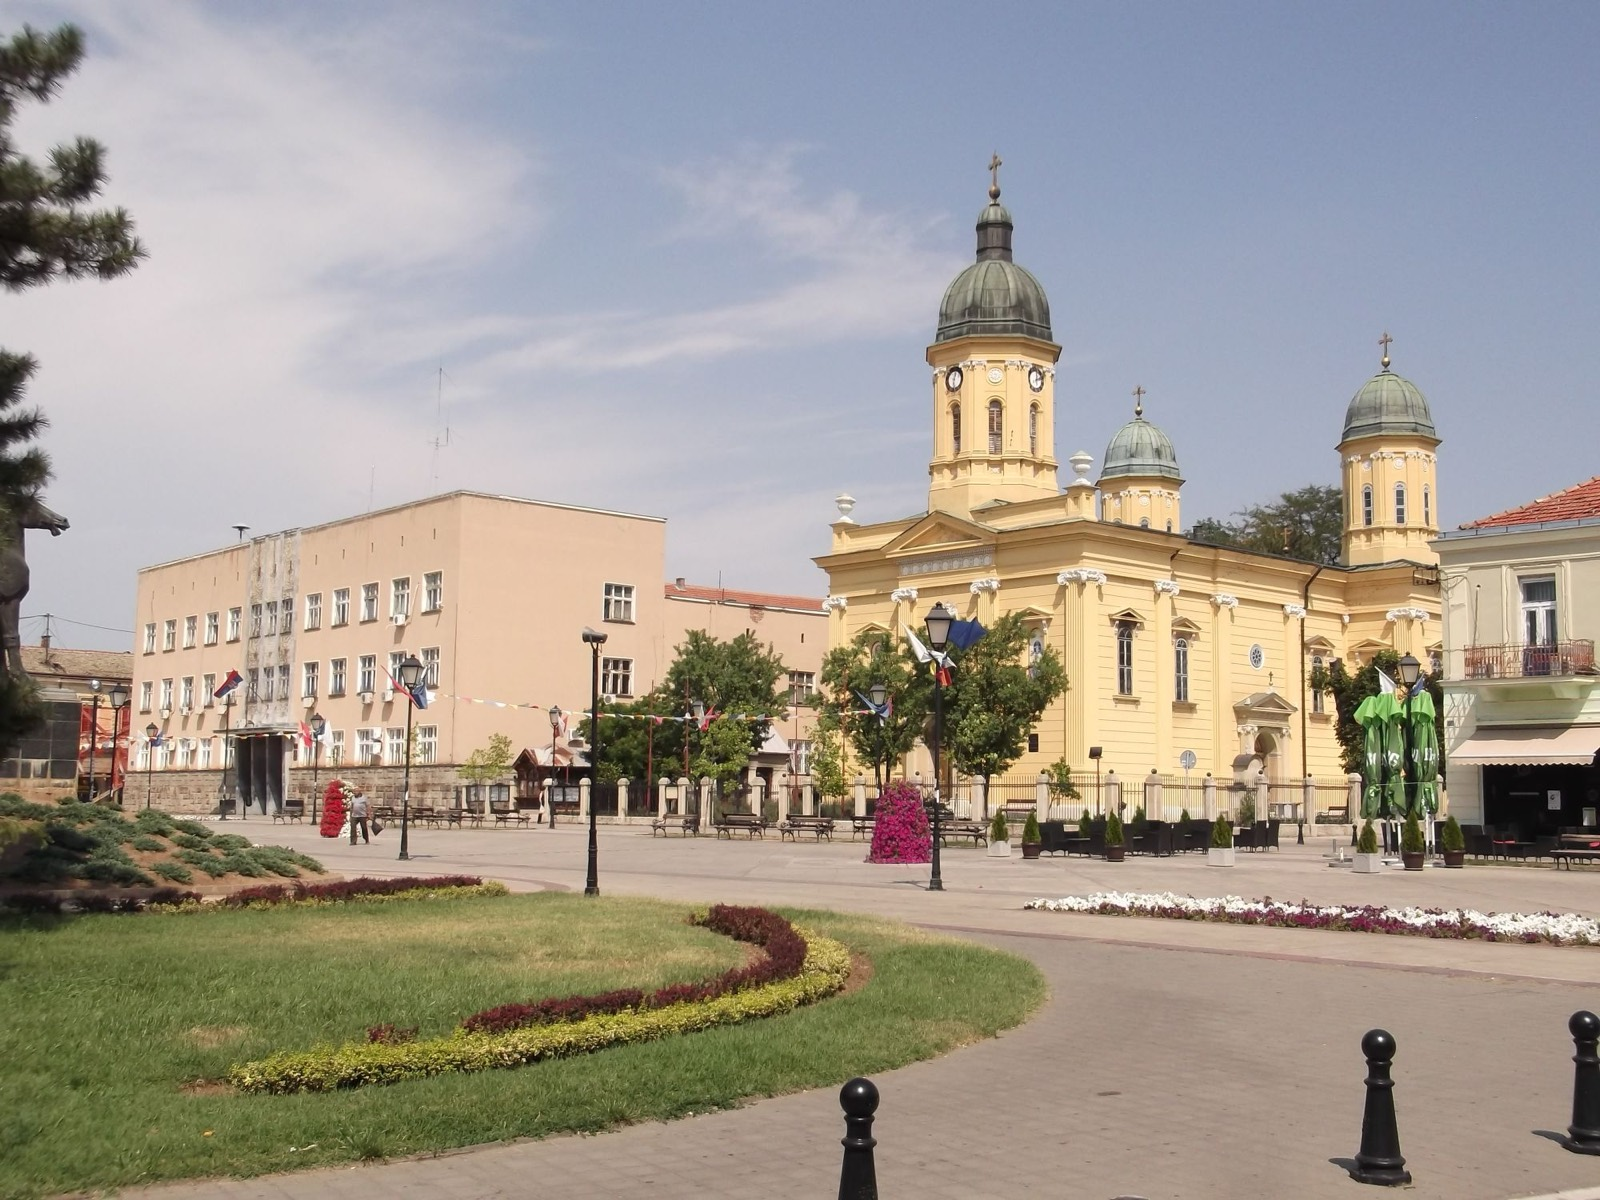
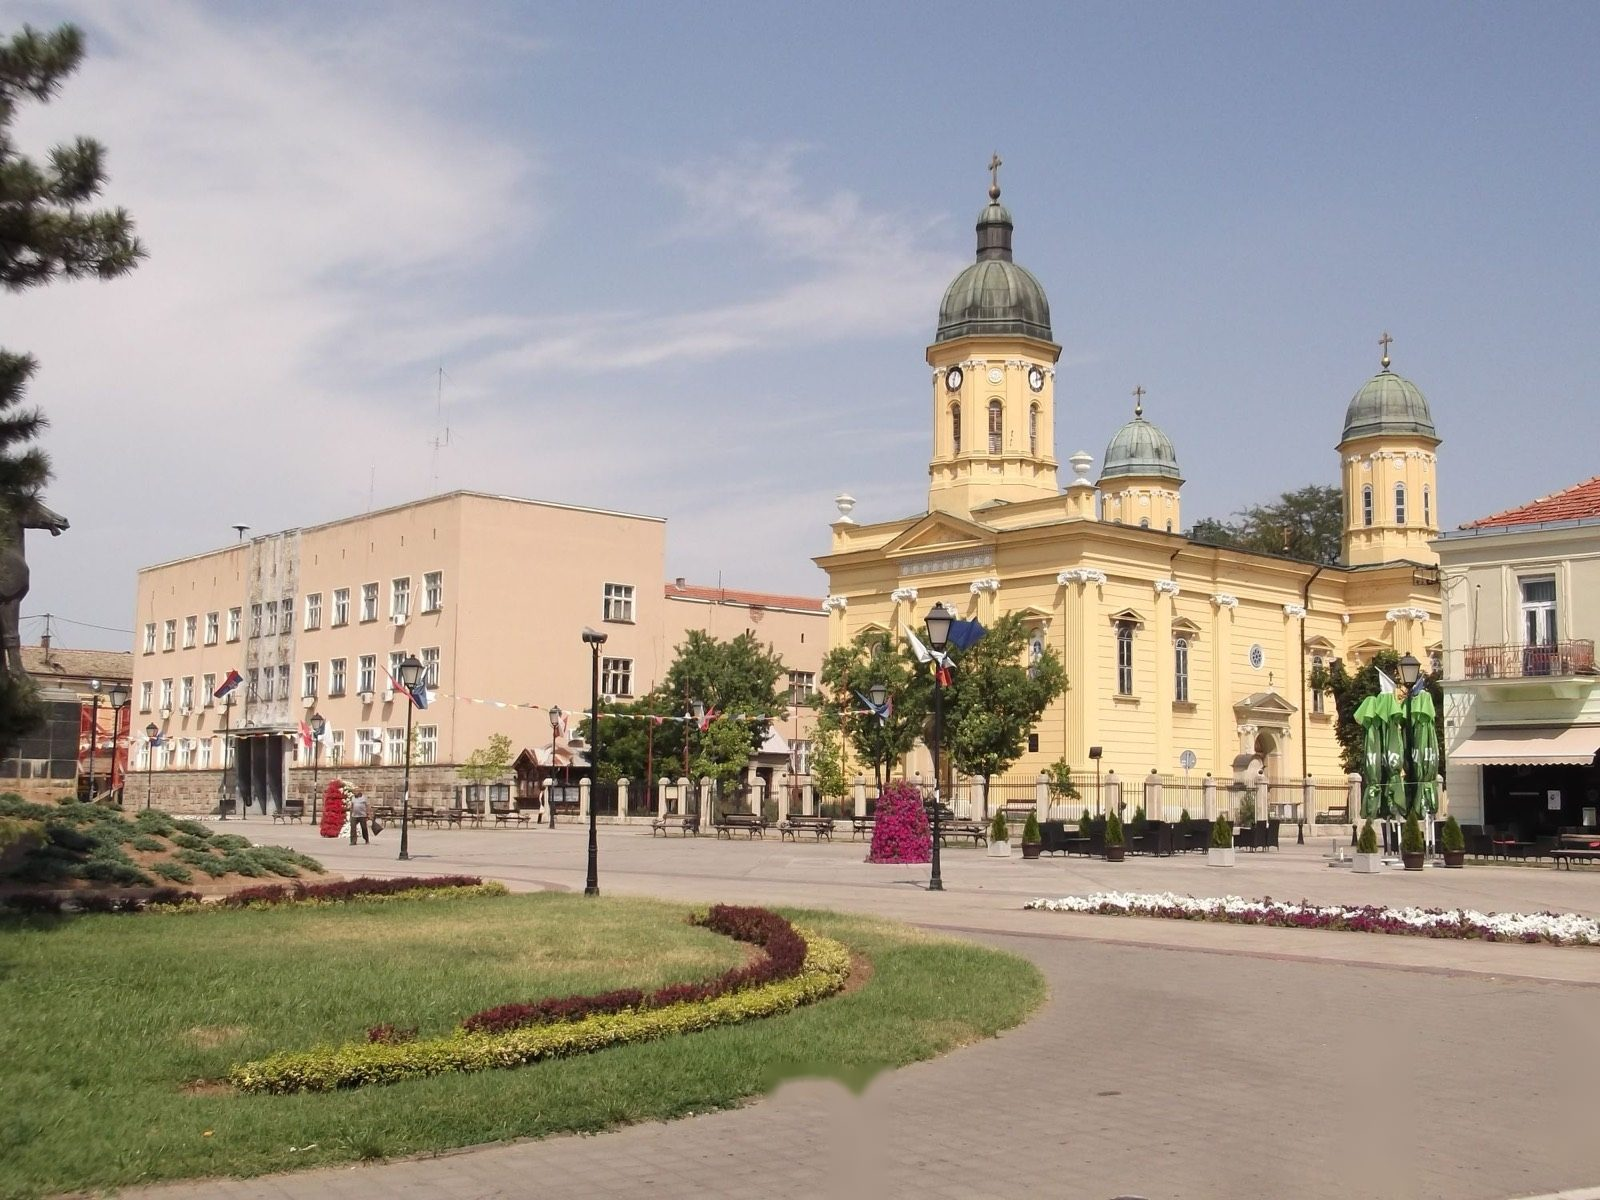
Popravljena dugmad ka delovima stranice, bez stubova na slici
- dugmad i meni (Naše usluge, O nama, Kontakt...) opet skroluju do svog dela;
  pamćenje skrola ih je vraćalo na vrh
- uklonjeni stubovi sa fotografije trga
- O nama: datum u dva reda (05.12. / 2020.)
- Picerija Castelo; Cvećara po izboru umesto Cvećare Cuca

Changed region(s): [[0.4688, 0.8942, 0.5625, 1.0], [0.8125, 0.8633, 0.9062, 1.0], [0.9688, 0.8325, 1.0, 0.9867]]

diff --git a/src/catalog.js b/src/catalog.js
@@ -62,8 +62,8 @@ export const CATEGORIES = {
 export const SHOPS = [
   // ---------------- HRANA ----------------
   {
-    slug: 'picerija-kastelo',
-    name: 'Picerija Kastelo',
+    slug: 'picerija-castelo',
+    name: 'Picerija Castelo',
     service: 'food',
     emoji: '🍕',
     about: 'Pice iz peći, sendviči i pasta.',
@@ -74,7 +74,7 @@ export const SHOPS = [
         items: [
           { id: 'margarita', name: 'Margarita', desc: 'Pelat, sir, origano', price: [['32 cm', 650], ['50 cm', 1300]] },
           { id: 'kapricoza', name: 'Kapričoza', desc: 'Pelat, sir, šunka, pečurke', price: [['32 cm', 790], ['50 cm', 1550]] },
-          { id: 'kastelo', name: 'Kastelo specijal', desc: 'Pelat, sir, kulen, slanina, jaje, ljuta papričica', price: [['32 cm', 890], ['50 cm', 1750]] },
+          { id: 'castelo', name: 'Castelo specijal', desc: 'Pelat, sir, kulen, slanina, jaje, ljuta papričica', price: [['32 cm', 890], ['50 cm', 1750]] },
           { id: 'cetiri-sira', name: 'Četiri sira', desc: 'Pavlaka, gauda, gorgonzola, mocarela, parmezan', price: [['32 cm', 920], ['50 cm', 1800]] },
           { id: 'vegetarijana', name: 'Vegetarijana', desc: 'Pelat, sir, paprika, tikvice, masline, kukuruz', price: [['32 cm', 760], ['50 cm', 1480]] },
         ],
@@ -365,11 +365,11 @@ export const SHOPS = [
 
   // ---------------- CVEĆE ----------------
   {
-    slug: 'cvecara-cuca',
-    name: 'Cvećara Cuca',
+    slug: 'cvecara',
+    name: 'Cvećara po izboru',
     service: 'flowers',
     emoji: '💐',
-    about: 'Buketi, ruže i saksijsko cveće. Uz buket može i čestitka sa vašom porukom.',
+    about: 'Buketi, ruže i saksijsko cveće iz cvećare u Negotinu. Uz buket može i čestitka sa vašom porukom.',
     request: { label: 'Poruka na čestitki', placeholder: 'npr. Srećan rođendan, mama! Voli te Ana' },
     menu: [
       { title: 'Buketi', cat: 'buketi', items: [

diff --git a/src/sections/About.jsx b/src/sections/About.jsx
@@ -12,7 +12,7 @@ const PARAGRAPHS = [
 
 // broj se "odbrojava" od nule kad sekcija uđe u ekran
 const FACTS = [
-  { value: '5.12.2020.', label: 'krenuli smo sa radom' },
+  { value: '05.12.\n2020.', label: 'krenuli smo sa radom' },
   { count: 10000, suffix: '+', label: 'zadovoljnih klijenata' },
   { value: '5,0', label: 'ocena na Google-u' },
 ]
@@ -50,7 +50,7 @@ export default function About() {
               {FACTS.map((fact) => (
                 <div key={fact.label} className="flex flex-col-reverse">
                   <dt className="text-sm leading-snug text-mute">{fact.label}</dt>
-                  <dd className="font-serif text-[clamp(22px,2.6vw,30px)] font-bold tabular-nums text-red">
+                  <dd className="whitespace-pre-line font-serif text-[clamp(22px,2.6vw,30px)] font-bold leading-tight tabular-nums text-red">
                     {fact.count ? <CountUp to={fact.count} suffix={fact.suffix} /> : fact.value}
                   </dd>
                 </div>

diff --git a/src/lib/router.jsx b/src/lib/router.jsx
@@ -1,6 +1,6 @@
 import { useSyncExternalStore } from 'react'
 
-// Mali ruter bez dodatnih biblioteka: /naruci, /lokal/picerija-kastelo, /prijava...
+// Mali ruter bez dodatnih biblioteka: /naruci, /lokal/picerija-castelo, /prijava...
 const listeners = new Set()
 const subscribe = (fn) => {
   listeners.add(fn)
@@ -31,6 +31,9 @@ if (typeof window !== 'undefined') {
   if (!pageKey()) history.replaceState({ ...history.state, bbKey: newKey() }, '')
   addEventListener('scroll', () => positions.set(pageKey(), scrollY), { passive: true })
   addEventListener('popstate', () => {
+    // klik na link ka delu stranice (#usluge, #kontakt...) takođe pravi "popstate", ali bez našeg
+    // ključa: tu pregledač sam skroluje do tog dela i ne sme da ga vraćamo na vrh
+    if (!pageKey()) return
     const y = positions.get(pageKey()) ?? 0
     // čeka da React nacrta stranicu, pa tek onda skroluje
     requestAnimationFrame(() => requestAnimationFrame(() => scrollToY(y)))

diff --git a/PROMPTOVI-ZA-SLIKE.md b/PROMPTOVI-ZA-SLIKE.md
@@ -131,12 +131,12 @@ Za lokale **nemojte koristiti AI**: kupac treba da prepozna pravi lokal. Najbolj
 
 | Fajl | Lokal |
 |---|---|
-| `lokali/picerija-kastelo.jpg` | Picerija Kastelo |
+| `lokali/picerija-castelo.jpg` | Picerija Castelo |
 | `lokali/kafanica.jpg` | Kafanica |
 | `lokali/life-picerija.jpg` | Life picerija |
 | `lokali/pastizza.jpg` | Pastizza |
 | `lokali/la-moara.jpg` | La Moara |
-| `lokali/cvecara-cuca.jpg` | Cvećara Cuca |
+| `lokali/cvecara.jpg` | Cvećara |
 
 Za opšte „lokale“ (market, apoteka, poslastičarnica, pokloni, kurir) može AI, istim stilom kao usluge (fotorealistično, 16:9):
 

diff --git a/README.md b/README.md
@@ -57,7 +57,7 @@ Sajt mora ići preko **https** (kolačić za prijavu je `Secure`). Iza proksija 
 - **Meniji, cene, lokali i kategorije:** `src/catalog.js`. Trenutne cene su PRIMER, zamenite pravim.
   Server računa cenu iz ovog fajla, pa je kupac ne može promeniti.
 - **Slike:** `src/assets/photos/kategorije/<key>.jpg` (npr. `pica.jpg`, `dvesprata.jpg`) i
-  `src/assets/photos/lokali/<slug>.jpg` (npr. `picerija-kastelo.jpg`). Dok ih nema, prikazuje se emoji.
+  `src/assets/photos/lokali/<slug>.jpg` (npr. `picerija-castelo.jpg`). Dok ih nema, prikazuje se emoji.
 
 ## Struktura
 

diff --git a/src/assets/photos/README.md b/src/assets/photos/README.md
@@ -12,6 +12,6 @@ Dok slike ne postoje, prikazuje se siva zamena sa opisom.
 Za stranicu "Naruči":
 
 - kategorije/<key>.jpg – slika kategorije (key iz src/catalog.js: burger, pica, palacinke, cokoladne, dvesprata...)
-- lokali/<slug>.jpg    – naslovna slika lokala (picerija-kastelo, kafanica, life-picerija, pastizza, la-moara...)
+- lokali/<slug>.jpg    – naslovna slika lokala (picerija-castelo, kafanica, life-picerija, pastizza, la-moara...)
 
 Dok ih nema, prikazuje se emoji na obojenoj pozadini. Najbolje kvadratne slike (kategorije) i široke (lokali).
